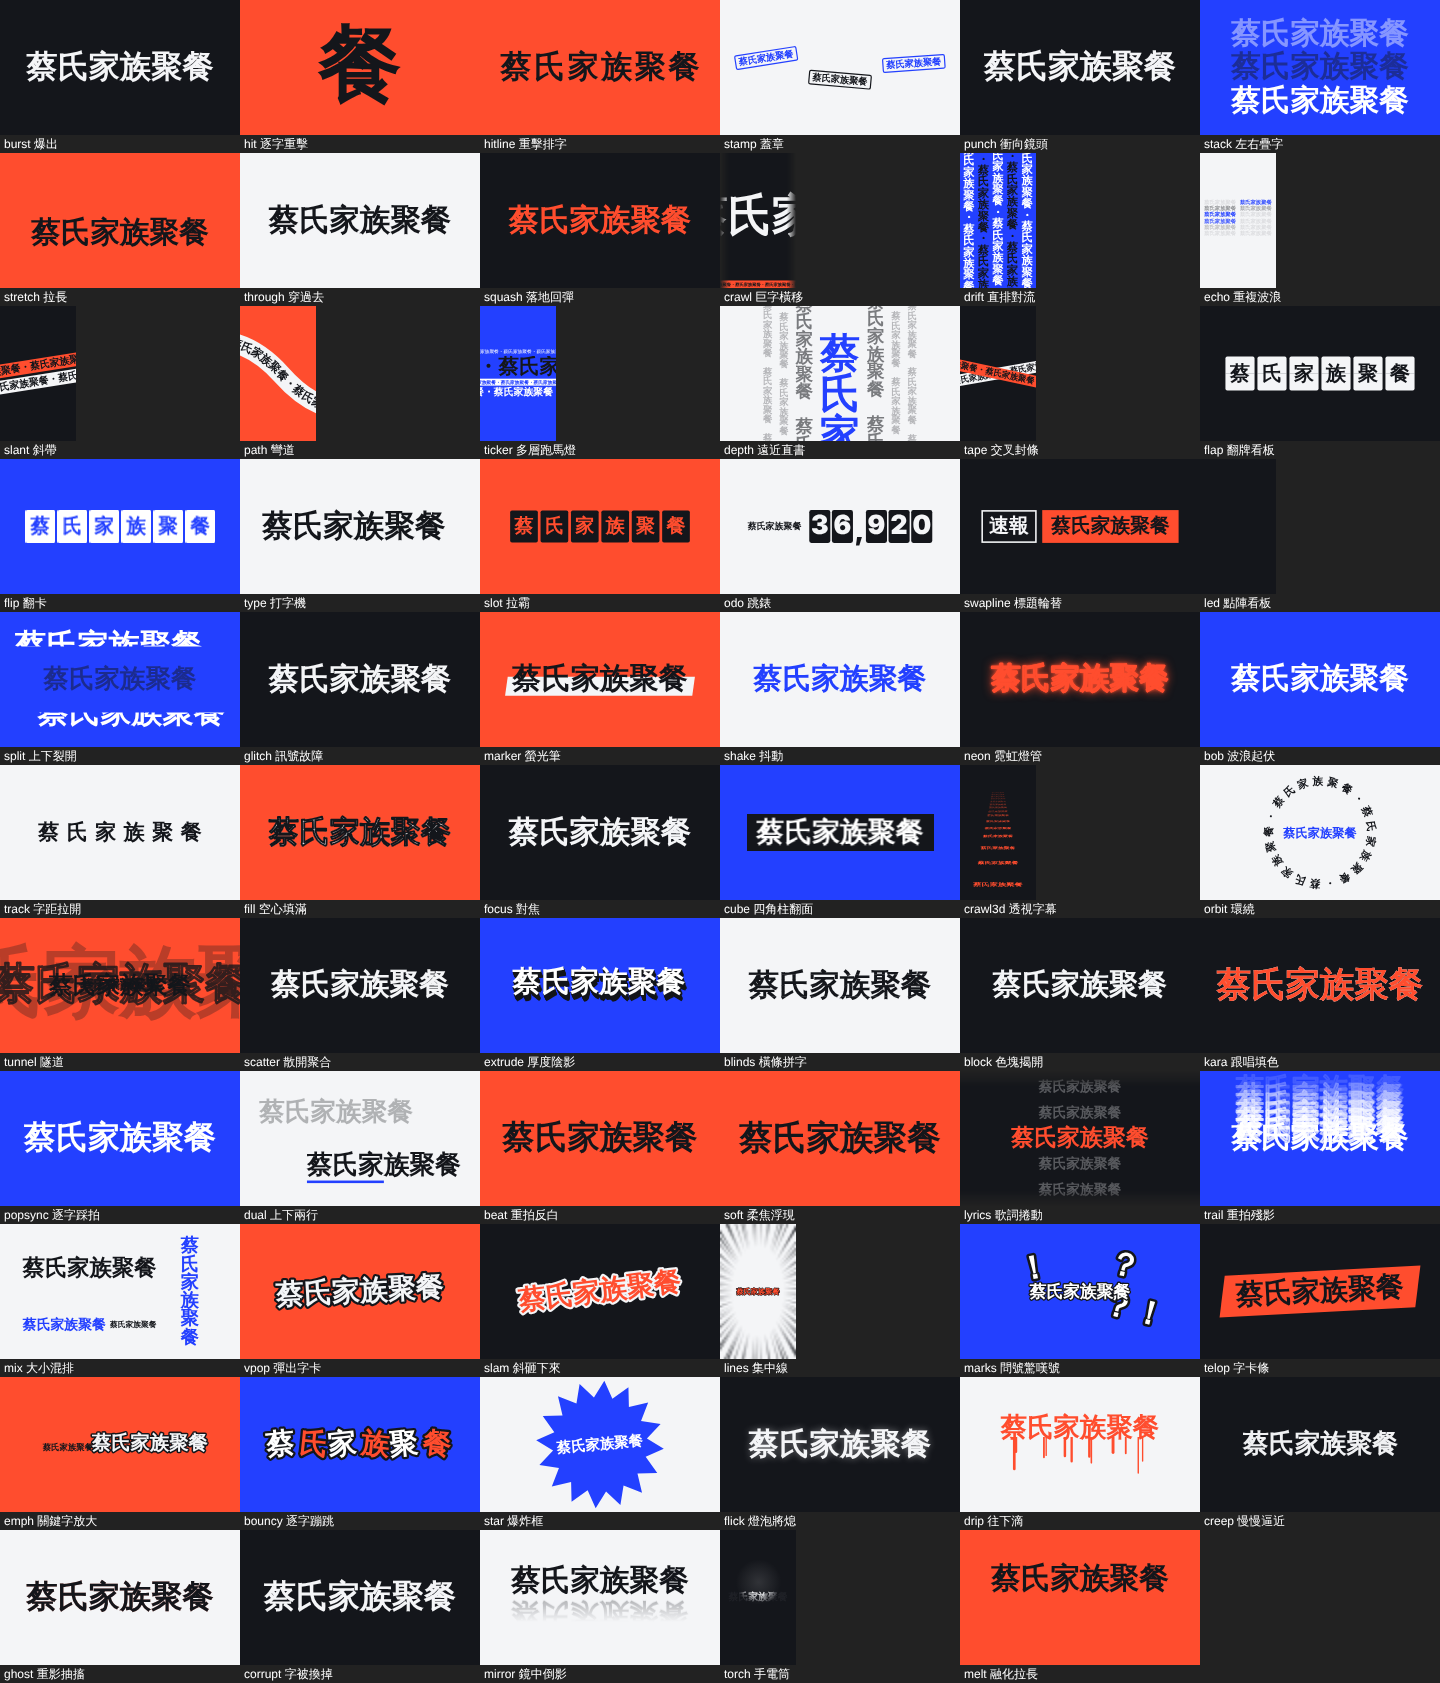
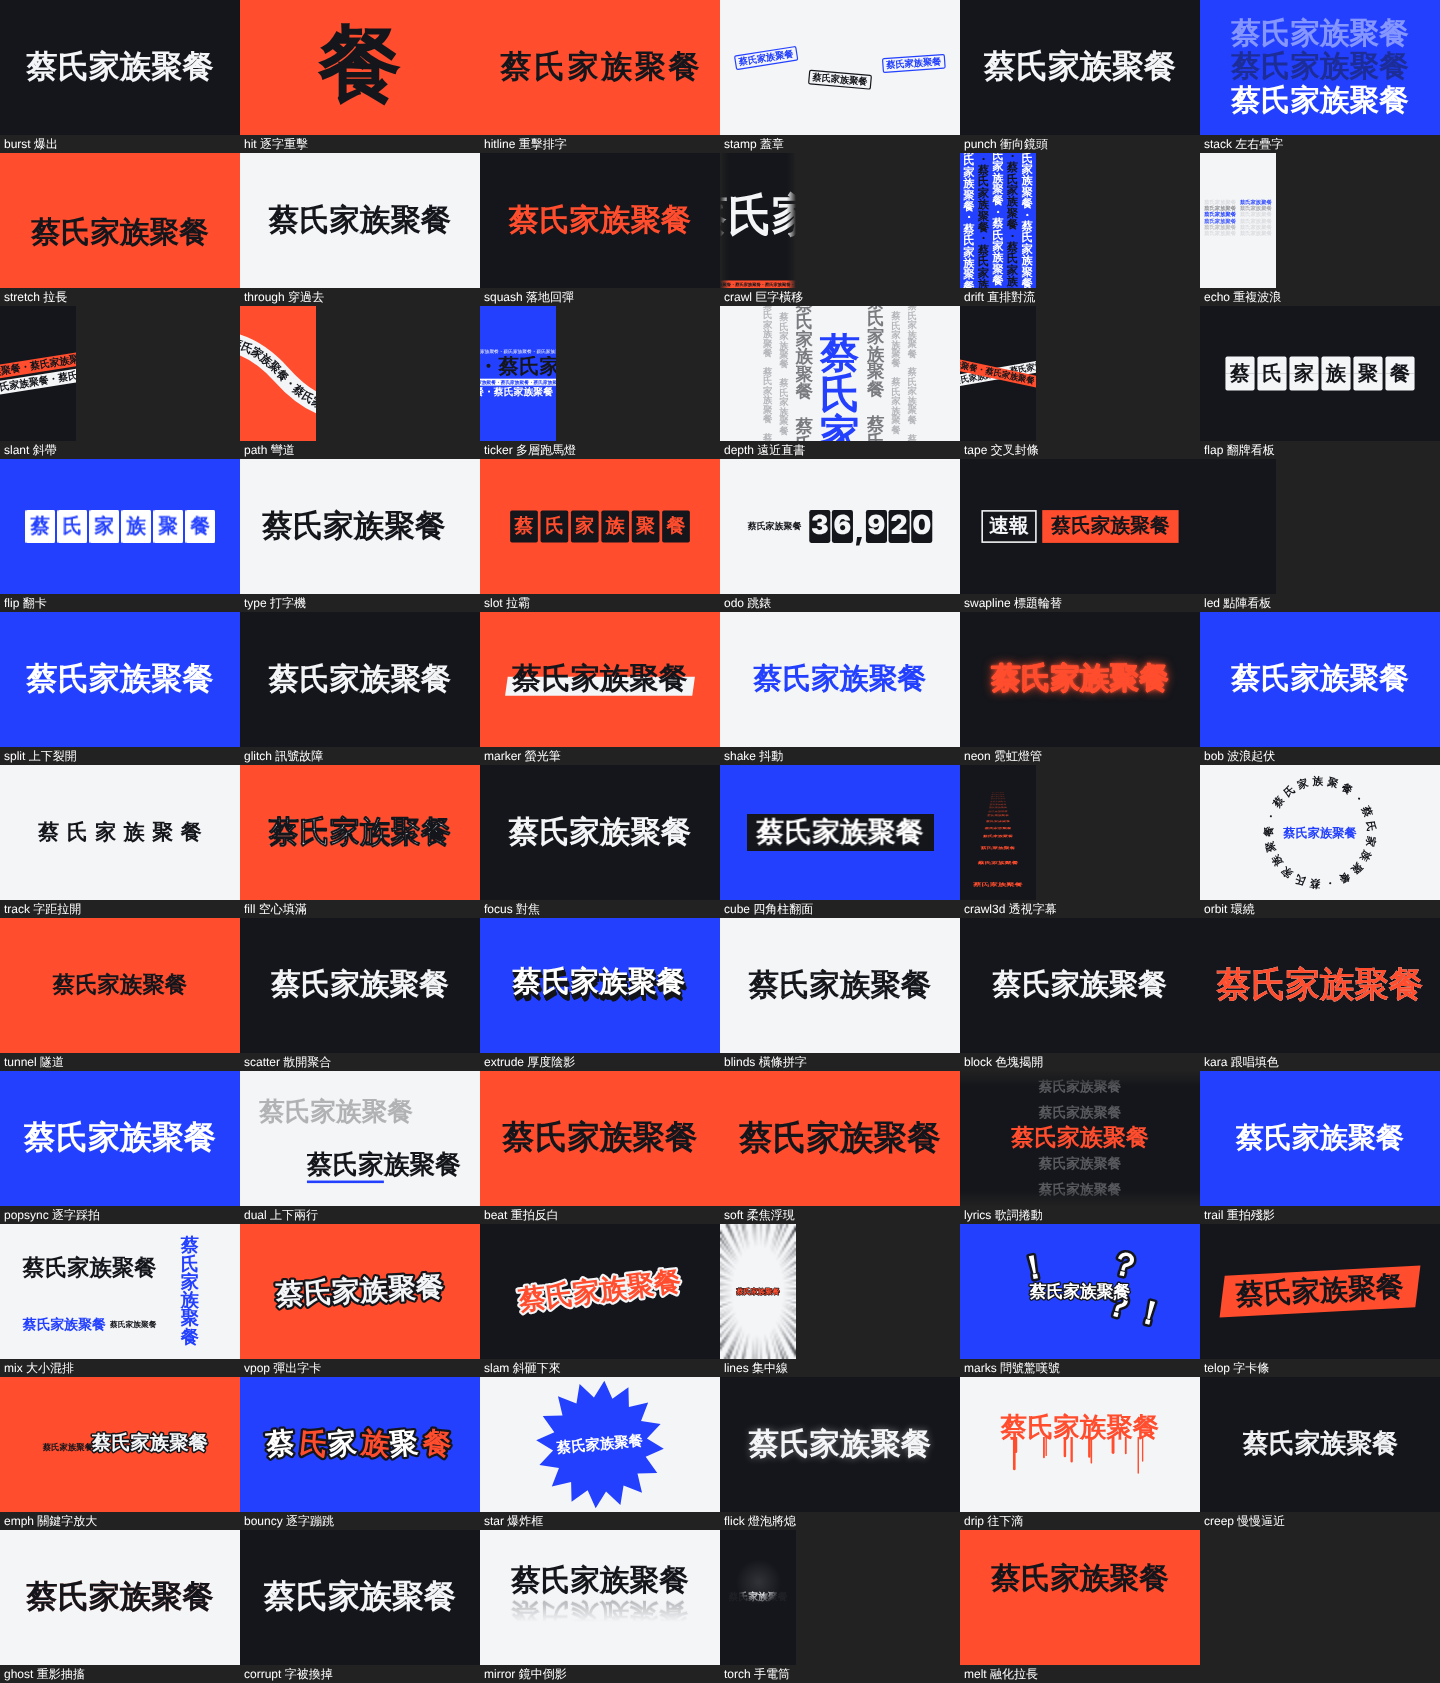
停在最後畫面：重拍殘影殘影收合、隧道只剩一個字、上下裂開停在字完整時
Claude-Session: https://claude.ai/code/session_019agY7otd5feanTroznJ55n

Changed region(s): [[0.0, 0.5561, 0.1875, 0.6179], [0.0, 0.3708, 0.1562, 0.4326], [0.8438, 0.6179, 1.0, 0.6797]]

diff --git a/src/engine/kinetic/kinetic.test.ts b/src/engine/kinetic/kinetic.test.ts
@@ -230,6 +230,27 @@ describe('動態字卡：換行與邊緣淡出', () => {
     const long = ['一二三四五六七八九十甲乙丙丁戊己庚辛壬癸']; // 20 個字
     expect(ys(long).size).toBe(1);
   });
+  it('停在最後畫面（settle）：重拍殘影的殘影收合（只剩主字）、隧道只剩一個正常大小的字；上下裂開停在字完整的那一刻', async () => {
+    const strokes = (id: string, t: number, settle: number) => {
+      const { s, log } = stage(['回聲']);
+      kineticById(id)!.draw({ ...s, settle }, t);
+      return log.filter((l) => l.startsWith('strokeText(')).length;
+    };
+    expect(strokes('trail', 0.1, 0)).toBeGreaterThan(0); // 打拍當下有空心殘影
+    expect(strokes('trail', 0.1, 1)).toBe(0); // 停下來：殘影收合
+    const words = (settle: number) => {
+      const { s, log } = stage(['前進']);
+      kineticById('tunnel')!.draw({ ...s, settle }, 1);
+      return log.filter((l) => l.startsWith('fillText(') || l.startsWith('strokeText(')).length;
+    };
+    expect(words(0)).toBeGreaterThan(1); // 一層一層飛過來
+    expect(words(1)).toBe(1); // 停下來只剩一個字
+    const { holdTime } = await import('./hold');
+    const split = kineticById('split')!;
+    // 最後一個詞的第 1.3 秒：還沒開始裂開（1.45 秒起）
+    expect(holdTime(split, ['結束', '開始'])).toBeCloseTo(2.2 + 1.3, 6);
+    expect(holdTime(split, ['結束', '開始'])).toBeLessThan(split.len(['結束', '開始'])!);
+  });
   it('fadeEdges：none 什麼都不畫；v／h 各畫兩條漸層（destination-out）', async () => {
     const { fadeEdges } = await import('./core');
     const none = fakeCtx();

diff --git a/src/engine/kinetic/fx/mv.ts b/src/engine/kinetic/fx/mv.ts
@@ -225,15 +225,16 @@ export const FX_MV: KineticDef[] = [
       const i = Math.floor(b / 4);
       const word = pick(s.words, i);
       const px = fit(s, word, 40, 70);
-      const d = E.out(seg(bt, 0, 0.16)) * (1 - E.io(seg(bt, 0.16, 0.58)));
+      const calm = 1 - (s.settle ?? 0); // 停在最後畫面：殘影慢慢收合回主字，最後只剩一個字
+      const d = E.out(seg(bt, 0, 0.16)) * (1 - E.io(seg(bt, 0.16, 0.58))) * calm;
       const dir = b % 2 ? 1 : -1;
       // 每一拍甩出 6 層空心殘影（越遠越淡），再收回來；主字在最上面，剛打拍時稍微放大
-      for (let j = N; j >= 1; j--)
-        drawWord(s, word, W / 2, H / 2 + dir * j * d * 7.5 * cqmin, px, {
-          stroke: 0.03 * px,
-          alpha: clamp((1 - j / (N + 1)) * Math.min(1, d * 4)),
-        });
-      const sc = 1 + 0.08 * (1 - seg(bt, 0, 0.2));
+      for (let j = N; j >= 1; j--) {
+        const alpha = clamp((1 - j / (N + 1)) * Math.min(1, d * 4));
+        if (alpha <= 0) continue; // 殘影收合了就不畫
+        drawWord(s, word, W / 2, H / 2 + dir * j * d * 7.5 * cqmin, px, { stroke: 0.03 * px, alpha });
+      }
+      const sc = 1 + 0.08 * (1 - seg(bt, 0, 0.2)) * calm;
       drawWord(s, word, W / 2, H / 2, px, { sx: sc, sy: sc });
     },
   },

diff --git a/src/engine/kinetic/fx/sp.ts b/src/engine/kinetic/fx/sp.ts
@@ -191,9 +191,12 @@ export const FX_SP: KineticDef[] = [
       // 同一個詞 7 層，一層一層朝鏡頭飛過來（越近越大）；實心與空心描邊交錯，近的蓋在遠的上面
       const L = Array.from({ length: N }, (_, j) => ({ j, z: ((j + t * 0.9) % N) / N }));
       L.sort((a, b) => a.z - b.z);
+      // 停在最後畫面：飛過來的層慢慢淡掉，同時一個正常大小的字淡入，停下來就只剩這個字
+      const rest = s.settle ?? 0;
+      if (rest > 0) drawWord(s, word, W / 2, H / 2, px, { sx: 1, sy: 1, alpha: rest });
       for (const { j, z } of L) {
         const sc = 0.08 * Math.pow(60, z);
-        const alpha = Math.min(1, z * 5) * (1 - seg(z, 0.72, 1));
+        const alpha = Math.min(1, z * 5) * (1 - seg(z, 0.72, 1)) * (1 - rest);
         if (alpha <= 0) continue;
         drawWord(s, word, W / 2, H / 2, px, {
           sx: sc,

diff --git a/src/engine/kinetic/fx/swap.ts b/src/engine/kinetic/fx/swap.ts
@@ -470,6 +470,8 @@ export const FX_SWAP: KineticDef[] = [
     words: ['結束', '開始'],
     poster: 1.9,
     len: (w) => 2.2 * w.length,
+    // 最後一個詞：還沒開始裂開（裂開從 1.45 秒起）、整個詞完整的那一刻
+    hold: (w) => 2.2 * (w.length - 1) + 1.3,
     draw(s, t) {
       const { W, H, cqw, cqh } = s;
       const D = 2.2;

diff --git a/docs/PROGRESS.md b/docs/PROGRESS.md
@@ -89,6 +89,10 @@
 - 2026-11-11 找到新字體來源 max32002/pop-gothic（大波浪圓體，含注音）→ 已加入手寫可愛包。問「能不能直接下載到我的 files 下載資料夾」→ 答：網頁在 iPhone 不能自動寫進「檔案」App 資料夾；官方字體存在瀏覽器裡，自己的字體用「匯入字體檔」從檔案 App 選
 
 ## 日誌（最新在最上面）
+- 2026-11-26 殘影類停在最後畫面（Sonnet，claude/zen-tesla-v3brj5）
+  - 做了什麼：用 `settle` 讓〔重拍殘影〕停下來時殘影收合（只剩主字、不再放大）；〔隧道〕停下來時飛來的層淡掉、一個正常大小的字淡入；〔上下裂開〕的 `hold` 改成最後一個詞還沒開始裂開的那一刻（不用 settle）；重拍殘影透明的層不畫。對照圖 `hold-sheet-after.png` 更新
+  - 還沒改：一直流動的式子（跑馬燈、透視字幕、環繞、點陣看板…）照 poster 停；鏡中倒影的倒影本來就是那一式的樣子沒動
+  - 驗證：✅ `npm run check`、kinetic 相關 e2e 過
 - 2026-11-25 重擊排字的換行（Sonnet，claude/zen-tesla-v3brj5）
   - 做了什麼：〔重擊排字〕預設**全部排成一行**（最多 24 個字，字再多也縮小，不再超過 8 字就換行）；文字〔內容〕按 Enter 就照使用者的行排（`textLines(item)` → `Stage.lines`，`lineSizes()`）；設定視窗（只有重擊排字）多〔換行〕：〔排成一行〕（預設）／〔自動換行〕（超過 8 字才換，`kinetic.wrap:'auto'`）；字高也跟著行數縮小，不會超出框
   - 動了哪些檔：`src/engine/kinetic/{core,render,fx/in}.ts`、`src/model/types.ts`、`src/store/actions.ts`、`src/app/editor/tabs/EffectTab.tsx`；單元測試 `kinetic.test`（`lineSizes`、一行／自動／Enter 的行數）；e2e `z22-hitline`
